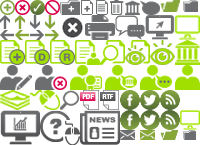
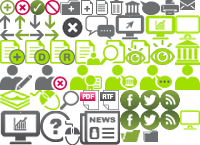
Preview DMP and public dmp pages

Changed region(s): [[0.42, 0.0, 0.99, 0.2759], [0.6, 0.8828, 0.99, 0.9931]]

diff --git a/app/assets/stylesheets/buttons.css b/app/assets/stylesheets/buttons.css
@@ -142,9 +142,13 @@ a.icon {
 	text-decoration: none !important;
 	vertical-align: middle;
 	position: relative; }
-a span.icon, h1 span.icon {
+a .icon, h2 .icon {
 	position: absolute;
 	left: 0; }
+h1 .icon {
+	position: absolute;
+	top: 7px;
+	left: 12px; }
 	
 /* first row */
 .add.icon {
@@ -160,17 +164,17 @@ a span.icon, h1 span.icon {
 .add-requirement.icon {
 	background-position: -80px 0; width: 14px; height: 15px; }
 .requirement.icon {
-	background-position: -95px 0; width: 14px; height: 15px; }
+	background-position: -95px 0; width: 14px; height: 15px; top: -1px; left: 2px; }
 .trash.icon {
 	background-position: -110px 0; width: 14px; height: 15px; }
 .institution.icon {
-	background-position: -125px 0; width: 15px; height: 15px; }
+	background-position: -125px 0; width: 15px; height: 15px; top: -3px; }
 .comment.icon {
 	background-position: -140px 0; width: 20px; height: 15px; }
-.folder-open.icon {
-	background-position: -160px 0; width: 20px; height: 12px; }
-.folder-closed.icon {
-	background-position: -185px 0; width: 20px; height: 12px; }
+.print.icon {
+	background-position: -160px 0; width: 20px; height: 15px; }
+.email.icon {
+	background-position: -180px 0; width: 15px; height: 10px; }
 /* second row */
 .arrow-up.icon {
 	background-position: 0px -15px; width: 10px; height: 15px; }
@@ -178,7 +182,7 @@ a span.icon, h1 span.icon {
 	background-position: -25px -15px; }
 .arrow-right.icon {
 	background-position: -15px -15px; width: 15px; height: 10px; }
-	.arrow-right.icon:hover, .arrow-right.icon:focus, .arrow-right.icon:active {
+.arrow-right.icon:hover, .arrow-right.icon:focus, .arrow-right.icon:active {
 	background-position: -40px -15px; }
 .arrow-down.icon {
 	background-position: -15px -25px; width: 10px; height: 15px; }
@@ -190,12 +194,12 @@ a span.icon, h1 span.icon {
 	background-position: -25px -030px; }
 .close.icon {
 	background-position: -50px -15px; width: 25px; height: 25px; }
-.print.icon {
-	background-position: -85px -15px; width: 30px; height: 25px; }
 .institution-contact.icon {
-	background-position: -115px -15px; width: 30px; height: 25px; }
+	background-position: -85px -15px; width: 30px; height: 25px; }
 .institution-domain.icon {
-	background-position: -145px -15px; width: 30px; height: 25px; }
+	background-position: -115px -15px; width: 30px; height: 25px; }
+.public-dmps.icon {
+	background-position: -145px -15px; width: 30px; height: 25px; top: 8px; }
 .login.icon {
 	background-position: -175px -15px; width: 25px; height: 25px; }
 /* third row */
@@ -230,7 +234,7 @@ a span.icon, h1 span.icon {
 	background-position: -175px -65px; width: 25px; height: 25px; }
 /* fifth row */
 .overview.icon {
-	background-position: 0 -90px; width: 30px; height: 20px; }
+	background-position: 0 -90px; width: 30px; height: 20px; top: 11px; }
 .select.icon {
 	background-position: -30px -90px; width: 30px; height: 20px; }
 .search.icon {
@@ -256,18 +260,25 @@ a span.icon, h1 span.icon {
 .user-login.icon:hover, .user-login.icon:focus, .user-login.icon:active {
 	background-position: -180px -110px; }
 /* sixth row */
-.public-dmps.icon {
+.public.icon {
 	background-position: 0 -110px; width: 40px; height: 35px; }
 .help.icon {
 	background-position: -40px -110px; width: 40px; height: 35px; }
 .news.icon {
 	background-position: -80px -110px; width: 40px; height: 35px; }
-.email.icon {
-	background-position: -120px -130px; width: 15px; height: 10px; }
-.email.icon:hover, .email.icon:focus, .email.icon:active {
-	background-position: -140px -130px; }
+.folder-open.icon {
+	background-position: -120px -130px; width: 20px; height: 12px; top: 2px; }
+.folder-closed.icon {
+	background-position: -140px -130px; width: 20px; height: 12px; top: 2px; }
 
 /* Tree View Icons */
+a.icon.print {
+	background: none;
+	font-size: 1.167em;
+	width: auto;
+	height: auto;
+	padding-left: 25px;
+	position: relative; }
 a.icon.new, a.icon.delete {
 	background: none;
 	vertical-align: middle;
@@ -280,3 +291,5 @@ a.icon.delete {
 a.icon.new:hover, a.icon.new:focus, a.icon.new:active, 
 a.icon.delete:hover, a.icon.delete:focus, a.icon.delete:active {
 	text-decoration: underline !important; }
+a.add-requirement.icon { 
+	background: none; width: auto; height: auto; padding-left: 17px; }

diff --git a/app/assets/stylesheets/ui.css b/app/assets/stylesheets/ui.css
@@ -75,7 +75,7 @@ ul.nav-tabs li.active > a:hover, .tabs ul.nav-tabs li.active a:focus {
 .control-group.select_institution select {
 	width: 330px; }
 .control-group.switch_institution {
-	height: 178px; }
+	height: 179px; }
 	
 /* DMPTool Pages */
 .dmptool-page p {
@@ -112,25 +112,9 @@ ul.nav-tabs li.active > a:hover, .tabs ul.nav-tabs li.active a:focus {
 .nested_institutions {
 	margin-left: 35px; }
 .institution a {
-	padding-left: 35px;
+	padding-left: 22px;
 	position: relative; }
-.icon.requirements-group-open {
-	background-position: -160px 0px; width: 20px; height: 12px;
-	top: 2px; }
-.icon.requirements-group-closed {
-	background-position: -185px 0px; width: 20px; height: 12px;
-	top: 2px;  }
-.icon.new-requirements-group {
-	background-position: -60px 0; width: 20px; height: 15px; }
-span.icon.new-requirement {
-	background-position: -80px 0; width: 15px; height: 15px; }
-.icon.requirement {
-	background-position: -95px 0; width: 15px; height: 15px; left: 2px; }
-a.icon.new-requirement {
-	background: none;
-	padding-left: 17px; }
-.icon.institution {
-	top: -2px; }
+
 
 	
 /* Misc. */

diff --git a/app/assets/stylesheets/static_pages.css b/app/assets/stylesheets/static_pages.css
@@ -64,7 +64,7 @@
 .buckets-header h2 {
 	border-left: 1px solid #B6B6B7;
 	text-transform: uppercase;
-	line-height: 40px;
+	line-height: 44px;
 	height: 40px;
 	margin: 0;
 	padding: 0 0 0 73px;
@@ -73,7 +73,8 @@
 .buckets-header .span4:first-child h2 {
 	background-position: 20px 0;
 	border-left: none; }
-.buckets-header span.icon {
+.buckets-header h2 .icon {
+	top: 2px;
 	left: 20px; }
 .buckets p {
 	font-size: 1.167em;

diff --git a/app/assets/stylesheets/scaffolds.css.scss b/app/assets/stylesheets/scaffolds.css.scss
@@ -17,7 +17,7 @@ h1 {
 	color: #85A541;
 	font-size: 2em;
 	line-height: normal; }
-h1.row-fluid, h2.row-fluid  {
+h1.row-fluid  {
 	clear: both;
 	background: #6D6E70;
 	color: #FFFFFF;
@@ -29,9 +29,6 @@ h1.row-fluid, h2.row-fluid  {
 	margin: 20px 0 0 0;
 	padding: 0 0 0 50px;
 	position: relative; }
-h1.row-fluid span.icon, h2.row-fluid {
-	top: 7px;
-	left: 11px; }
 h2, h3, h4, h5, h6 {
 	line-height: 1.3; }
 h2 {

diff --git a/config/routes.rb b/config/routes.rb
@@ -18,6 +18,7 @@ Dmptool2::Application.routes.draw do
   get 'partners_list', to: 'institutions#partners_list'
   get 'privacy', to: 'static_pages#privacy'
   get 'promote', to: 'static_pages#promote'
+  get 'public_dmps', to: 'static_pages#public_dmps'
   get 'terms_of_use', to: 'static_pages#terms_of_use'
   get 'video', to: 'static_pages#video'
   get 'resource_contexts/dmp_for_customization', to: 'resource_contexts#dmp_for_customization', as: "dmp_for_customization"
